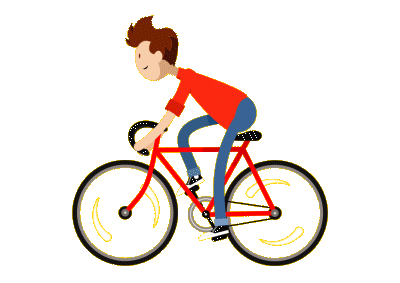
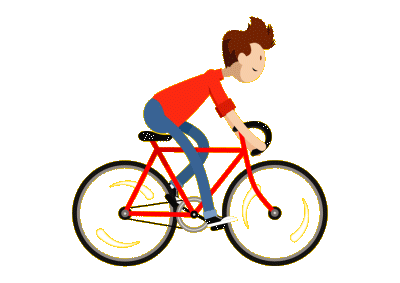
Change biker direction

diff --git a/bundle.js b/bundle.js
@@ -97,7 +97,7 @@ class Game {
     backgroundImage.src = './assets/images/citybackground.jpg';
     const player = new Player(foregroundCtx, 40, 415);
     const drawImage = (time) => {
-      var framegap=time-lastRepaintTime + 3;
+      var framegap=time-lastRepaintTime;
       lastRepaintTime=time;
       var translateX=velocity*(framegap/900);
       backgroundCtx.clearRect(0,0,1100,650);
@@ -130,15 +130,15 @@ class Player {
     this.y = y;
     this.ctx = ctx;
     this.photoCount = 1;
-    this.timerCount = 0;
+    this.timerCount = 1;
     this.jump = false;
     this.getInitHeight = 0;
-    this.gravity = 3;
+    this.gravity = 6;
     this.gravitySpeed = 0;
     const bikerImage = new Image();
 
     this.image = bikerImage;
-    this.interval = setInterval(this.updateGame.bind(this), 1);
+    this.interval = setInterval(this.updateGame.bind(this), 10);
     this.pressedKey = false;
     window.addEventListener('keydown', function (e) {
       Player.pressedKey = (Player.pressedKey || []);
@@ -150,10 +150,13 @@ class Player {
   }
 
   update(){
-    if (this.photoCount > 5) {
+    let photoCountChar;
+    if (this.photoCount > 2) {
       this.photoCount = 1;
     }
-    this.image.src = `./assets/images/image_part_00${this.photoCount + 4}.png`;
+    photoCountChar = this.photoCount > 9 ? `${this.photoCount}` : `0${this.photoCount}`;
+    this.image.src = `./assets/images/image_part_0${photoCountChar}.png`;
+    this.ctx.clearRect(0,0,1100,650);
     this.ctx.drawImage(this.image, this.x, this.y);
   }
 
@@ -168,8 +171,8 @@ class Player {
     }
       this.y += this.speedY;
       this.x += this.speedX;
-    if (this.y > 430) {
-      this.y = 430;
+    if (this.y > 350) {
+      this.y = 350;
     }
     if (this.x > 900) {
       this.x = 900;
@@ -179,12 +182,11 @@ class Player {
   }
 
   updateGame(){
-    this.ctx.clearRect(0,0,1100,650);
     this.newPos();
     if (Player.pressedKey && Player.pressedKey[37] && this.x > 100) {this.speedX = -2; }
     if (Player.pressedKey && Player.pressedKey[39] && this.x < 950) {this.speedX = 2; }
-    if (Player.pressedKey && Player.pressedKey[38] && this.y > 300) {this.speedY = -2; }
-    if (Player.pressedKey && Player.pressedKey[40] && this.y < 430) {this.speedY = 2; }
+    if (Player.pressedKey && Player.pressedKey[38] && this.y > 220) {this.speedY = -2; }
+    if (Player.pressedKey && Player.pressedKey[40] && this.y < 350) {this.speedY = 2; }
     if (Player.pressedKey && Player.pressedKey[32]) {
       Player.pressedKey = false;
       this.jump = true;
@@ -197,7 +199,7 @@ class Player {
     // if (this.y > 300) {
     // }
     this.timerCount += 1;
-    if (this.timerCount === 15) {
+    if (this.timerCount === 20) {
       this.photoCount += 1;
       this.timerCount = 1;
     }

diff --git a/lib/player.js b/lib/player.js
@@ -6,15 +6,15 @@ class Player {
     this.y = y;
     this.ctx = ctx;
     this.photoCount = 1;
-    this.timerCount = 0;
+    this.timerCount = 1;
     this.jump = false;
     this.getInitHeight = 0;
-    this.gravity = 3;
+    this.gravity = 6;
     this.gravitySpeed = 0;
     const bikerImage = new Image();
 
     this.image = bikerImage;
-    this.interval = setInterval(this.updateGame.bind(this), 1);
+    this.interval = setInterval(this.updateGame.bind(this), 10);
     this.pressedKey = false;
     window.addEventListener('keydown', function (e) {
       Player.pressedKey = (Player.pressedKey || []);
@@ -26,10 +26,13 @@ class Player {
   }
 
   update(){
-    if (this.photoCount > 5) {
+    let photoCountChar;
+    if (this.photoCount > 2) {
       this.photoCount = 1;
     }
-    this.image.src = `./assets/images/image_part_00${this.photoCount + 4}.png`;
+    photoCountChar = this.photoCount > 9 ? `${this.photoCount}` : `0${this.photoCount}`;
+    this.image.src = `./assets/images/image_part_0${photoCountChar}.png`;
+    this.ctx.clearRect(0,0,1100,650);
     this.ctx.drawImage(this.image, this.x, this.y);
   }
 
@@ -44,8 +47,8 @@ class Player {
     }
       this.y += this.speedY;
       this.x += this.speedX;
-    if (this.y > 430) {
-      this.y = 430;
+    if (this.y > 350) {
+      this.y = 350;
     }
     if (this.x > 900) {
       this.x = 900;
@@ -55,12 +58,11 @@ class Player {
   }
 
   updateGame(){
-    this.ctx.clearRect(0,0,1100,650);
     this.newPos();
     if (Player.pressedKey && Player.pressedKey[37] && this.x > 100) {this.speedX = -2; }
     if (Player.pressedKey && Player.pressedKey[39] && this.x < 950) {this.speedX = 2; }
-    if (Player.pressedKey && Player.pressedKey[38] && this.y > 300) {this.speedY = -2; }
-    if (Player.pressedKey && Player.pressedKey[40] && this.y < 430) {this.speedY = 2; }
+    if (Player.pressedKey && Player.pressedKey[38] && this.y > 220) {this.speedY = -2; }
+    if (Player.pressedKey && Player.pressedKey[40] && this.y < 350) {this.speedY = 2; }
     if (Player.pressedKey && Player.pressedKey[32]) {
       Player.pressedKey = false;
       this.jump = true;
@@ -73,7 +75,7 @@ class Player {
     // if (this.y > 300) {
     // }
     this.timerCount += 1;
-    if (this.timerCount === 15) {
+    if (this.timerCount === 20) {
       this.photoCount += 1;
       this.timerCount = 1;
     }

diff --git a/lib/game.js b/lib/game.js
@@ -11,7 +11,7 @@ class Game {
     backgroundImage.src = './assets/images/citybackground.jpg';
     const player = new Player(foregroundCtx, 40, 415);
     const drawImage = (time) => {
-      var framegap=time-lastRepaintTime + 3;
+      var framegap=time-lastRepaintTime;
       lastRepaintTime=time;
       var translateX=velocity*(framegap/900);
       backgroundCtx.clearRect(0,0,1100,650);

diff --git a/assets/stylesheets/game.css b/assets/stylesheets/game.css
@@ -4,3 +4,9 @@ div#game {
 canvas {
   position: absolute;
 }
+canvas#foreground{
+  z-index: 100;
+}
+canvas#background{
+  z-index: -100;
+}
